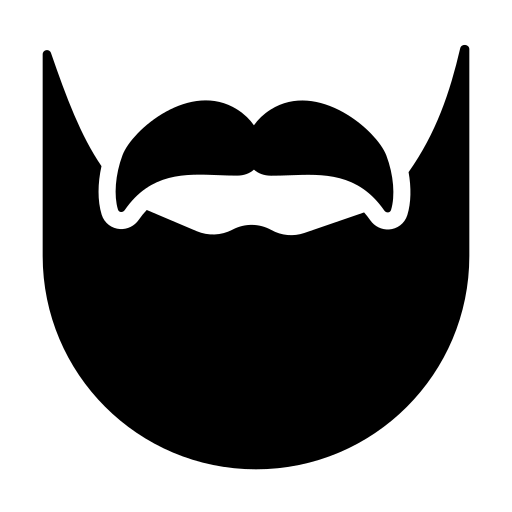
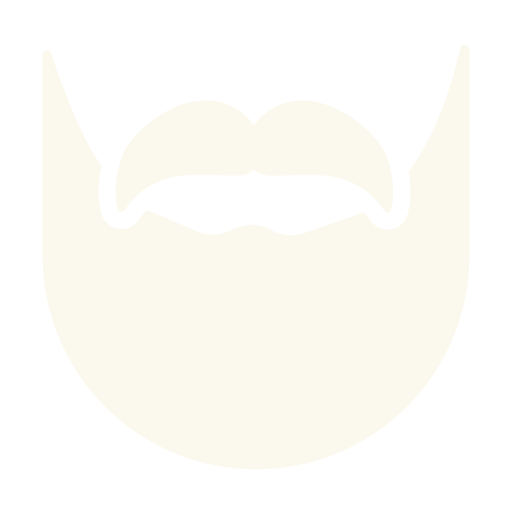
Criando parte de serviços prestados

diff --git a/index.html b/index.html
@@ -2,52 +2,69 @@
 <html lang="pt-br">
 
 <head>
-    <meta charset="UTF-8">
-    <meta name="viewport" content="width=device-width, initial-scale=1.0">
-    <title>Romas Barbearia</title>
-    <link rel="stylesheet" href="css/reset.css">
-    <link rel="stylesheet" href="css/vars.css">
-    <link rel="stylesheet" href="css/style.css">
-    <!-- Google Fonts -->
-    <link rel="preconnect" href="https://fonts.googleapis.com">
-    <link rel="preconnect" href="https://fonts.gstatic.com" crossorigin>
-    <link
-        href="https://fonts.googleapis.com/css2?family=Lobster&family=Poppins:ital,wght@0,100;0,200;0,300;0,400;0,500;0,600;0,700;0,800;0,900;1,100;1,200;1,300;1,400;1,500;1,600;1,700;1,800;1,900&display=swap"
-        rel="stylesheet">
+  <meta charset="UTF-8">
+  <meta name="viewport" content="width=device-width, initial-scale=1.0">
+  <title>Romas Barbearia</title>
+  <link rel="stylesheet" href="css/reset.css">
+  <link rel="stylesheet" href="css/vars.css">
+  <link rel="stylesheet" href="css/style.css">
+  <!-- Google Fonts -->
+  <link rel="preconnect" href="https://fonts.googleapis.com">
+  <link rel="preconnect" href="https://fonts.gstatic.com" crossorigin>
+  <link
+    href="https://fonts.googleapis.com/css2?family=Lobster&family=Poppins:ital,wght@0,100;0,200;0,300;0,400;0,500;0,600;0,700;0,800;0,900;1,100;1,200;1,300;1,400;1,500;1,600;1,700;1,800;1,900&display=swap"
+    rel="stylesheet">
 </head>
 
 <body>
-    <header class="navbar">
-        <nav>
-            <ul>
-                <li><a href="#quem-somos">QUEM SOMOS</a></li>
-                <li><a href="#servicos">SERVIÇOS</a></li>
+  <header class="navbar">
+    <nav>
+      <ul>
+        <li><a href="#quem-somos">QUEM SOMOS</a></li>
+        <li><a href="#servicos">SERVIÇOS</a></li>
 
-                <li class="logo">
-                    <img src="img/logo2.png" alt="Logo Romas">
-                </li>
+        <li class="logo">
+          <img src="img/logo2.png" alt="Logo Romas">
+        </li>
 
-                <li><a href="#galeria">GALERIA</a></li>
-                <li><a href="#contato">CONTATO</a></li>
-            </ul>
-        </nav>
-    </header>
-    <main>
-        <section class="hero">
-          <div class="hero-content">
-            <h1>Hora de se renovar</h1>
-            <img src="img/seta.png" alt="Scroll Down" class="seta">
-            <img src="img/logo1.png" alt="Logo Barbearia" class="logo-hero">
-          </div>
-        </section>
-        <section class="hero">
-          <div class="hero-content">
-            <h1>Hora de se renovar</h1>
-            <img src="img/seta.png" alt="Scroll Down" class="seta">
-            <img src="img/logo1.png" alt="Logo Barbearia" class="logo-hero">
-          </div>
-        </section>
-      </main>      
+        <li><a href="#galeria">GALERIA</a></li>
+        <li><a href="#contato">CONTATO</a></li>
+      </ul>
+    </nav>
+  </header>
+  <main>
+    <section class="hero">
+      <div class="hero-content">
+        <h1>Hora de se renovar</h1>
+        <img src="img/seta.png" alt="Scroll Down" class="seta">
+        <img src="img/logo1.png" alt="Logo Barbearia" class="logo-hero">
+      </div>
+    </section>
+    <section class="servicos" id="servicos">
+      <h2>Serviços</h2>
+
+      <div class="cards">
+        <div class="card">
+          <img src="img/hair.png" alt="Corte Masculino">
+          <h3>Corte Masculino</h3>
+          <p>R$ 30,00</p>
+        </div>
+
+        <div class="card">
+          <img src="img/barba.png" alt="Barba e Bigode">
+          <h3>Barba e Bigode</h3>
+          <p>R$ 25,00</p>
+        </div>
+
+        <div class="card">
+          <img src="img/combo.png" alt="Combo">
+          <h3>Combo</h3>
+          <p>R$ 50,00</p>
+        </div>
+      </div>
+    </section>
+
+  </main>
 </body>
 
 </html>

diff --git a/css/style.css b/css/style.css
@@ -2,6 +2,7 @@ body {
     font-family: var(--fonte-principal);
     font-weight: 400;
     font-style: normal;
+    background-color: var(--bege);
 }
 
 h1 {
@@ -24,6 +25,7 @@ p {
     font-weight: 400;
 }
 
+/* HEADER */
 .navbar {
     background-color: #060704;
     position: fixed;
@@ -58,10 +60,13 @@ p {
     width: 100px;
 }
 
+
+/* MAIN */
 .hero {
     width: 100%;
     height: 100vh;
     background-image: url('../img/hero.jpg');
+    box-shadow: 0 2px 5px 0 rgba(0, 0, 0, 0.2);
     background-size: cover;
     background-position: center;
     background-repeat: no-repeat;
@@ -113,4 +118,53 @@ p {
     50% {
         transform: translateY(10px);
     }
+}
+
+.servicos {
+    height: 50vh;
+    padding: 100px 20px;
+    background-color: var(--bege);
+    text-align: center;
+}
+
+.servicos h2 {
+    margin-bottom: 50px;
+}
+
+.cards {
+    display: flex;
+    justify-content: space-around;
+    gap: 40px;
+    flex-wrap: wrap;
+}
+
+.card {
+    background-color: var(--preto);
+    color: var(--branco);
+    padding: 30px 20px;
+    border-radius: 8px;
+    width: 220px;
+    box-shadow: 0 10px 10px 0 rgba(0, 0, 0, 0.5);
+    transition: transform 0.3s;
+}
+
+.card:hover {
+    transform: scale(1.05);
+}
+
+.card img {
+    width: 100px;
+    margin-bottom: 15px;
+}
+
+.card h3 {
+    margin-bottom: 10px;
+    font-size: 22px;
+    color: var(--bege);
+}
+
+.card p {
+    font-size: 18px;
+    font-weight: bold;
+    color: var(--bege);
 }
